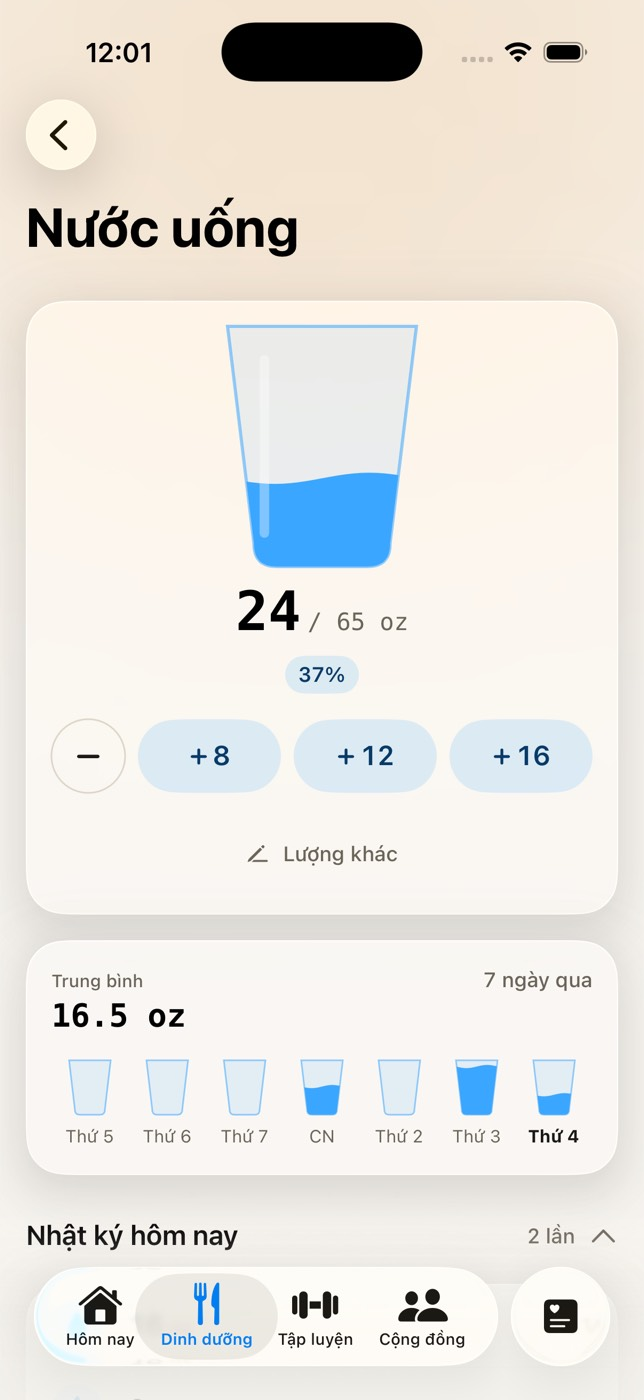
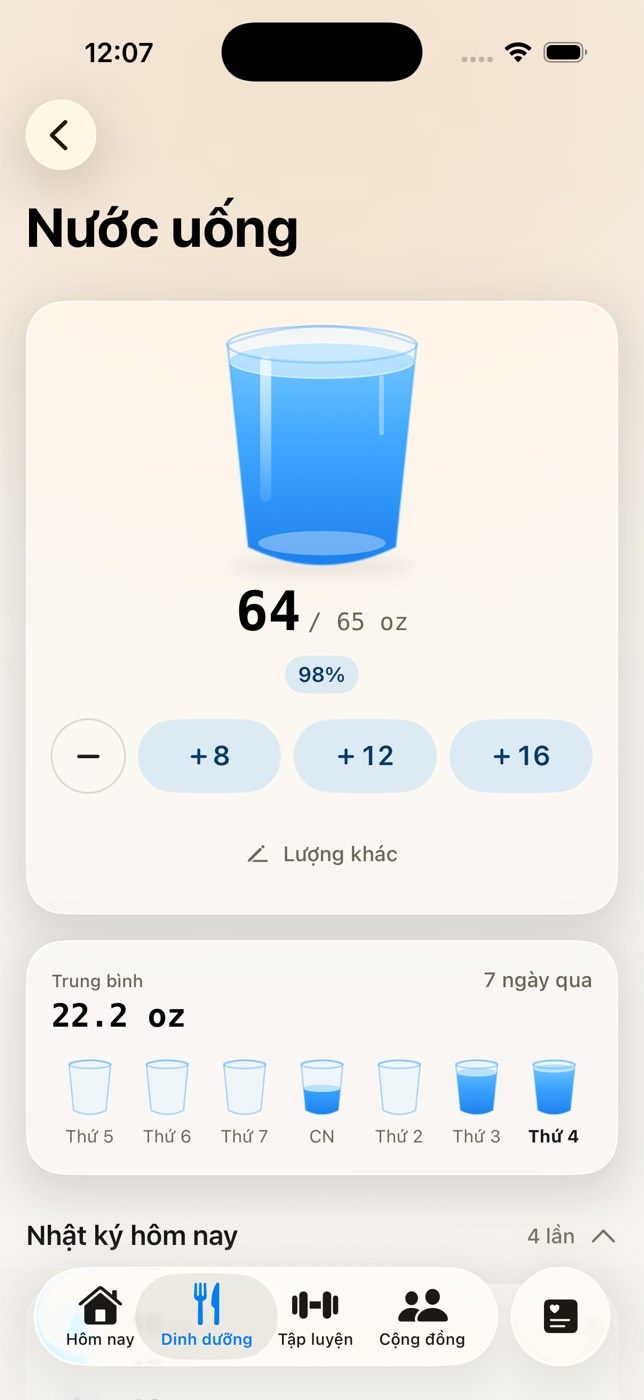
fix(ios): redraw the water glass (#527)
Owner: the first glass "didn't look good". Now a 3D glass: elliptical rim,
gently tapered body with a curved base and thick glass lens, water as a
light-to-deep blue gradient with a bright elliptical surface, two wall
highlights and a soft shadow; small week glasses keep the same shape
without the extras. Shared CupGeometry for body / water / rim.

Claude-Session: local 46bb62f8-3ac5-4ec5-9f9f-727da1cc6cd9

diff --git a/apps/ios/ASCND/Features/Nutrition/WaterView.swift b/apps/ios/ASCND/Features/Nutrition/WaterView.swift
@@ -347,51 +347,103 @@ struct WaterFeedbackLine: View {
 
 // MARK: - Cốc nước
 
-/// Hình cốc: miệng rộng, đáy hẹp, góc đáy bo.
-struct CupShape: Shape {
-  func path(in r: CGRect) -> Path {
-    let inset = r.width * 0.14
-    let radius = r.width * 0.12
+/// Hình học chung của cốc trong khung `r`: miệng elip ở trên, thân thuôn
+/// nhẹ, đáy cong (vẽ lại 14/10 — chủ dự án: cốc trước "chưa đẹp").
+struct CupGeometry {
+  let r: CGRect
+
+  /// Độ cao nửa elip miệng / đáy.
+  var rimH: CGFloat { r.height * 0.075 }
+  var topY: CGFloat { r.minY + rimH }
+  var bottomY: CGFloat { r.maxY - rimH * 1.1 }
+  var inset: CGFloat { r.width * 0.11 }
+
+  /// Mép trái / phải của thân ở độ cao `y` (thân thuôn tuyến tính).
+  func halfWidth(at y: CGFloat) -> CGFloat {
+    let t = max(0, min(1, (y - topY) / max(1, bottomY - topY)))
+    return (r.width / 2) - inset * t
+  }
+
+  /// Bóng của thân (trước + sau), dùng để tô và cắt.
+  var body: Path {
     var p = Path()
-    p.move(to: CGPoint(x: r.minX, y: r.minY))
-    p.addLine(to: CGPoint(x: r.maxX, y: r.minY))
-    p.addLine(to: CGPoint(x: r.maxX - inset, y: r.maxY - radius))
-    p.addQuadCurve(
-      to: CGPoint(x: r.maxX - inset - radius, y: r.maxY), control: CGPoint(x: r.maxX - inset, y: r.maxY))
-    p.addLine(to: CGPoint(x: r.minX + inset + radius, y: r.maxY))
-    p.addQuadCurve(
-      to: CGPoint(x: r.minX + inset, y: r.maxY - radius), control: CGPoint(x: r.minX + inset, y: r.maxY))
+    let w0 = halfWidth(at: topY), w1 = halfWidth(at: bottomY)
+    p.move(to: CGPoint(x: r.midX - w0, y: topY))
+    p.addLine(to: CGPoint(x: r.midX - w1, y: bottomY))
+    p.addQuadCurve(to: CGPoint(x: r.midX + w1, y: bottomY), control: CGPoint(x: r.midX, y: bottomY + rimH * 2))
+    p.addLine(to: CGPoint(x: r.midX + w0, y: topY))
+    p.addQuadCurve(to: CGPoint(x: r.midX - w0, y: topY), control: CGPoint(x: r.midX, y: topY - rimH * 2))
+    p.closeSubpath()
+    return p
+  }
+
+  /// Elip ngang ở độ cao `y` (miệng cốc, mặt nước).
+  func ellipse(at y: CGFloat, scale: CGFloat = 1) -> CGRect {
+    let w = halfWidth(at: y) * scale
+    let h = rimH * (w / (r.width / 2))
+    return CGRect(x: r.midX - w, y: y - h, width: w * 2, height: h * 2)
+  }
+
+  /// Độ cao của mặt nước cho mực 0…1.
+  func waterY(_ level: Double) -> CGFloat { bottomY - (bottomY - topY) * CGFloat(level) * 0.94 }
+}
+
+/// Khối nước: phần thân dưới mặt nước (mặt nước là nửa trước của elip).
+struct WaterBody: Shape {
+  var level: Double
+  var animatableData: Double {
+    get { level }
+    set { level = newValue }
+  }
+
+  func path(in r: CGRect) -> Path {
+    let g = CupGeometry(r: r)
+    guard level > 0.001 else { return Path() }
+    let y = g.waterY(level)
+    let w = g.halfWidth(at: y), w1 = g.halfWidth(at: g.bottomY)
+    let e = g.ellipse(at: y)
+    var p = Path()
+    p.move(to: CGPoint(x: r.midX - w, y: y))
+    p.addLine(to: CGPoint(x: r.midX - w1, y: g.bottomY))
+    p.addQuadCurve(to: CGPoint(x: r.midX + w1, y: g.bottomY), control: CGPoint(x: r.midX, y: g.bottomY + g.rimH * 2))
+    p.addLine(to: CGPoint(x: r.midX + w, y: y))
+    p.addQuadCurve(to: CGPoint(x: r.midX - w, y: y), control: CGPoint(x: r.midX, y: y + e.height))
     p.closeSubpath()
     return p
   }
 }
 
-/// Mặt nước: phần dưới của khung, mép trên gợn nhẹ.
-struct WaterSurface: Shape {
-  /// 0…1 — mực nước.
+/// Mặt nước: một elip sáng ở mực nước.
+struct WaterTop: Shape {
   var level: Double
-  /// Pha của gợn (0…2π); đứng yên khi Giảm chuyển động.
-  var phase: Double
-  var amplitude: CGFloat
-
-  var animatableData: AnimatablePair<Double, Double> {
-    get { AnimatablePair(level, phase) }
-    set { level = newValue.first; phase = newValue.second }
+  var animatableData: Double {
+    get { level }
+    set { level = newValue }
   }
 
   func path(in r: CGRect) -> Path {
-    let top = r.maxY - r.height * max(0, min(1, level))
-    var p = Path()
-    p.move(to: CGPoint(x: r.minX, y: r.maxY))
-    let steps = 24
-    for i in 0...steps {
-      let x = r.minX + r.width * CGFloat(i) / CGFloat(steps)
-      let y = top + (level >= 1 || level <= 0 ? 0 : amplitude * sin(CGFloat(phase) + CGFloat(i) / CGFloat(steps) * .pi * 2))
-      p.addLine(to: CGPoint(x: x, y: y))
-    }
-    p.addLine(to: CGPoint(x: r.maxX, y: r.maxY))
-    p.closeSubpath()
-    return p
+    let g = CupGeometry(r: r)
+    guard level > 0.001 else { return Path() }
+    return Path(ellipseIn: g.ellipse(at: g.waterY(level)))
+  }
+}
+
+struct CupBody: Shape {
+  func path(in r: CGRect) -> Path { CupGeometry(r: r).body }
+}
+
+struct CupRim: Shape {
+  func path(in r: CGRect) -> Path {
+    let g = CupGeometry(r: r)
+    return Path(ellipseIn: g.ellipse(at: g.topY))
+  }
+}
+
+/// Đáy kính dày: một thấu kính mờ sát đáy.
+struct CupBase: Shape {
+  func path(in r: CGRect) -> Path {
+    let g = CupGeometry(r: r)
+    return Path(ellipseIn: g.ellipse(at: g.bottomY - g.rimH * 0.2, scale: 0.86))
   }
 }
 
@@ -401,30 +453,56 @@ struct WaterCup: View {
   let fraction: Double
   let reduceMotion: Bool
   var small = false
-  @State private var phase = 0.0
+  @Environment(\.colorScheme) private var scheme
+
+  private var water: LinearGradient {
+    LinearGradient(
+      colors: [Color(red: 0.49, green: 0.80, blue: 1.0), WaterView.blue, Color(red: 0.10, green: 0.50, blue: 0.93)],
+      startPoint: .top, endPoint: .bottom)
+  }
 
   var body: some View {
     let level = max(0, min(1, fraction))
+    let glass = Color.white.opacity(scheme == .dark ? 0.06 : 0.45)
+    let edge = WaterView.blue.opacity(scheme == .dark ? 0.55 : 0.4)
     ZStack {
-      CupShape().fill(WaterView.blue.opacity(small ? 0.12 : 0.10))
-      WaterSurface(level: level, phase: phase, amplitude: small ? 1 : 3.5)
-        .fill(WaterView.blue)
-        .clipShape(CupShape())
-      CupShape().stroke(WaterView.blue.opacity(0.55), lineWidth: small ? 1 : 2)
       if !small {
-        // Ánh sáng trên thành cốc.
-        Capsule()
-          .fill(.white.opacity(0.35))
-          .frame(width: 6)
-          .padding(.vertical, 18)
-          .offset(x: -36)
+        // Bóng đổ mềm dưới đáy.
+        Ellipse()
+          .fill(.black.opacity(scheme == .dark ? 0.35 : 0.08))
+          .frame(height: 12)
+          .blur(radius: 5)
+          .frame(maxHeight: .infinity, alignment: .bottom)
+          .offset(y: 6)
       }
+      CupBody().fill(glass)
+      CupBody().fill(WaterView.blue.opacity(0.07))
+      WaterBody(level: level).fill(water)
+      WaterTop(level: level)
+        .fill(Color(red: 0.70, green: 0.88, blue: 1.0).opacity(0.95))
+        .overlay(WaterTop(level: level).stroke(.white.opacity(0.6), lineWidth: small ? 0.5 : 1))
+      if !small {
+        CupBase().fill(.white.opacity(0.35))
+        // Hai vệt sáng trên thành cốc.
+        GeometryReader { geo in
+          let g = CupGeometry(r: CGRect(origin: .zero, size: geo.size))
+          let x = geo.size.width / 2 - g.halfWidth(at: g.topY) * 0.7
+          Capsule()
+            .fill(LinearGradient(colors: [.white.opacity(0.75), .white.opacity(0.1)], startPoint: .top, endPoint: .bottom))
+            .frame(width: 7, height: (g.bottomY - g.topY) * 0.72)
+            .position(x: x + 6, y: g.topY + (g.bottomY - g.topY) * 0.42)
+          Capsule()
+            .fill(.white.opacity(0.35))
+            .frame(width: 3, height: (g.bottomY - g.topY) * 0.3)
+            .position(x: geo.size.width - x - 4, y: g.topY + (g.bottomY - g.topY) * 0.3)
+        }
+        .clipShape(CupBody())
+      }
+      CupBody().stroke(edge, lineWidth: small ? 1 : 1.5)
+      CupRim().stroke(edge, lineWidth: small ? 1 : 1.5)
+      if !small { CupRim().fill(.white.opacity(0.25)) }
     }
-    .animation(reduceMotion ? nil : .spring(duration: 0.6, bounce: 0.25), value: level)
-    .onAppear {
-      guard !reduceMotion, !small else { return }
-      withAnimation(.linear(duration: 3).repeatForever(autoreverses: false)) { phase = .pi * 2 }
-    }
+    .animation(reduceMotion ? nil : .spring(duration: 0.7, bounce: 0.2), value: level)
     .accessibilityHidden(true)
   }
 }
